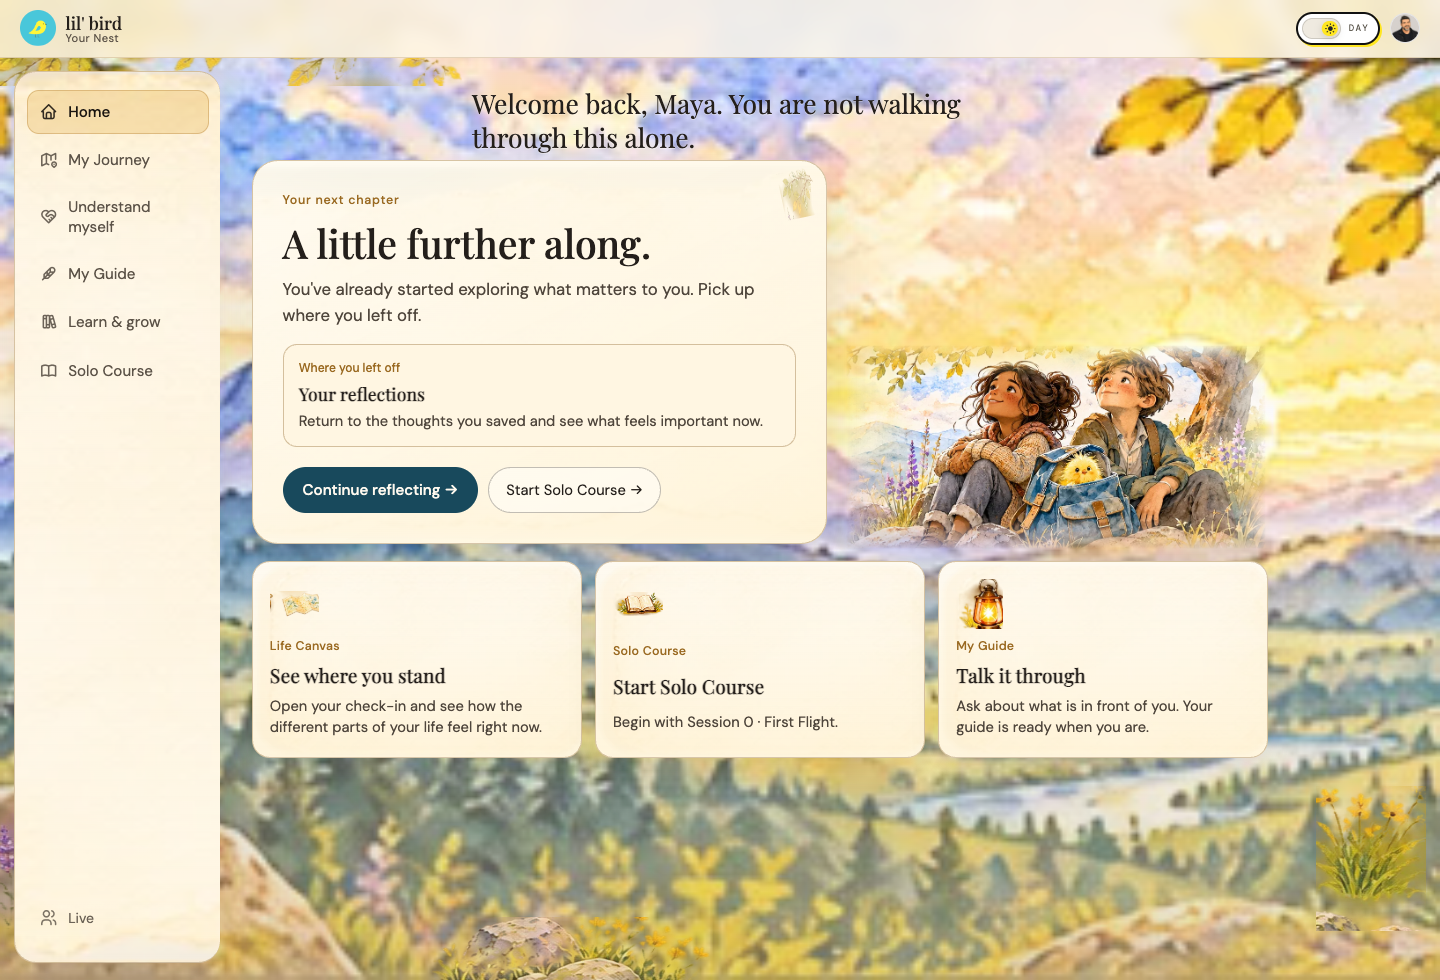
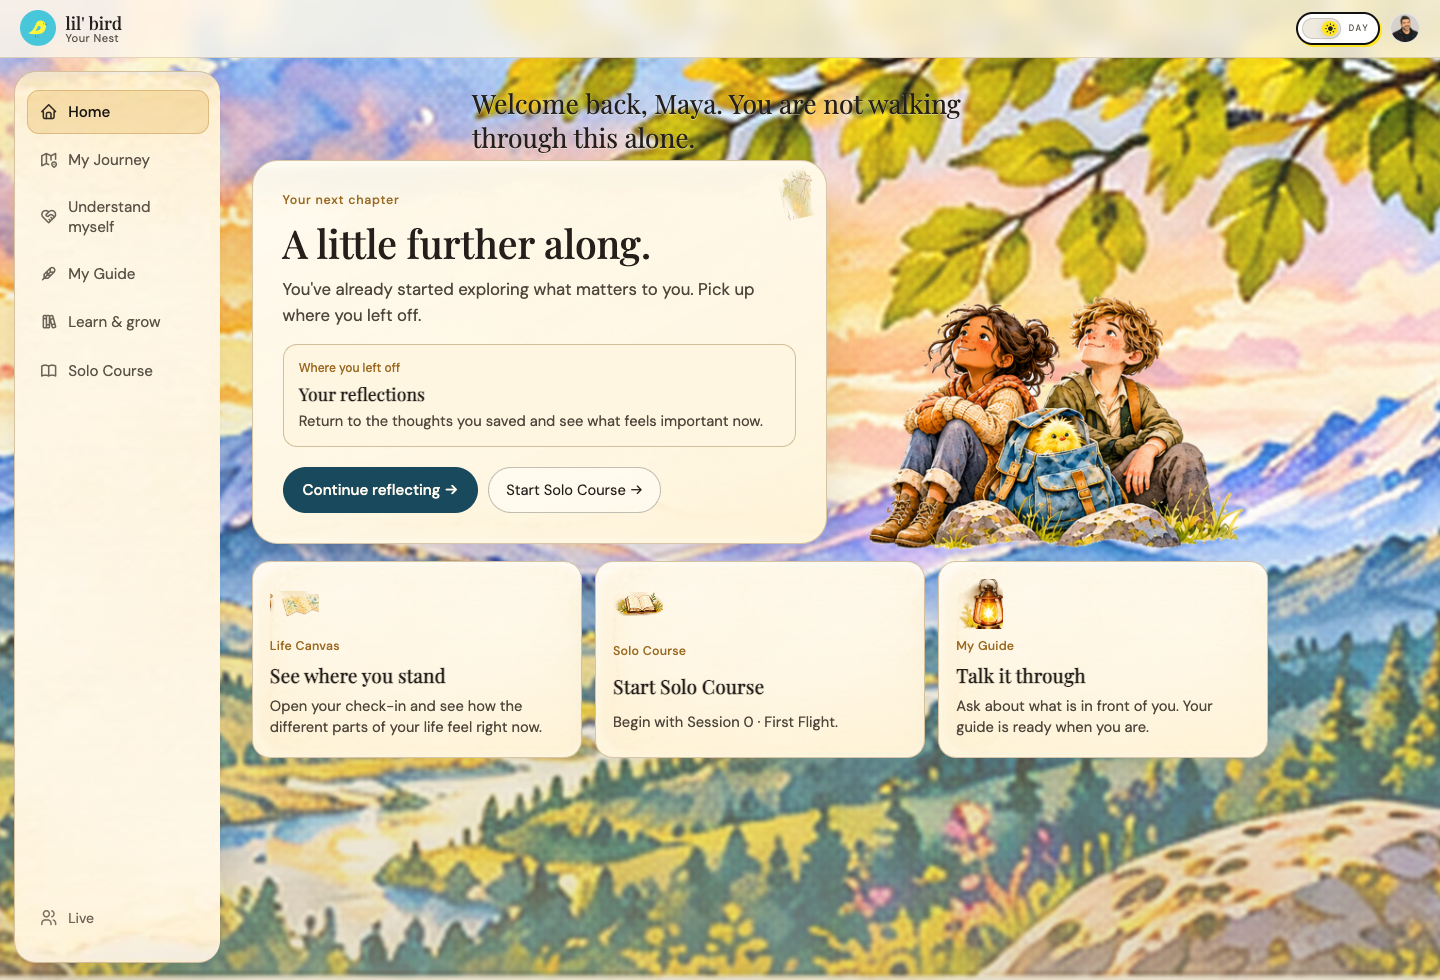
Swap in Nest valley and companion art replacements for review.
Use the new day/night panoramas and RGBA companion cutouts, prefer the no-lantern night companions, and refresh review screenshots. Do not merge yet.

diff --git a/css/lilbird-nest-world.css b/css/lilbird-nest-world.css
@@ -5,8 +5,9 @@
    do not “fix” soft edges or low-res backgrounds with blur/mask filters. */
 
 .nest-page.nest-world {
-  --world-day: url("/nest/assets/lilbird-kit/backgrounds/valley-day.webp");
-  --world-night: url("/nest/assets/lilbird-kit/backgrounds/valley-night.webp");
+  /* Nov 5 replacements — opaque panoramas; companions are separate RGBA cutouts */
+  --world-day: url("/nest/assets/lilbird-kit/backgrounds/nest-valley-day.webp");
+  --world-night: url("/nest/assets/lilbird-kit/backgrounds/nest-valley-night.webp");
   --paper-grain: url("/nest/assets/lilbird-kit/textures/cream-grain.webp");
   --paper-hero: url("/nest/assets/lilbird-kit/panels/paper-wide.webp");
   --paper-card: url("/nest/assets/lilbird-kit/panels/paper-card-a.webp");
@@ -34,7 +35,7 @@
   background-image:
     linear-gradient(180deg, rgba(247, 241, 230, 0.06) 0%, rgba(247, 241, 230, 0.18) 55%, rgba(201, 184, 146, 0.5) 100%),
     var(--world-day);
-  background-position: center top, center 18%;
+  background-position: center top, center 28%;
   background-size: auto, cover;
   background-repeat: no-repeat;
   background-attachment: fixed;
@@ -59,7 +60,7 @@ html[data-theme="dark"] .nest-page.nest-world {
   background-image:
     linear-gradient(180deg, rgba(15, 36, 51, 0.12) 0%, rgba(15, 36, 51, 0.42) 70%, rgba(15, 36, 51, 0.7) 100%),
     var(--world-night);
-  background-position: center top, center 20%;
+  background-position: center top, center 30%;
   background-size: auto, cover;
 }
 
@@ -75,71 +76,20 @@ html[data-theme="dark"] .nest-page.nest-world::before {
   mix-blend-mode: soft-light;
 }
 
-/* ── Decorative world layers (non-interactive) ── */
+/* ── Decorative world layers ──
+   New valley panoramas already include canopy, botanicals, rocks, and night stars.
+   Keep the decor slot in the DOM, but hide the old overlapping accents. */
 .nest-world-decor {
   position: fixed;
   inset: 0;
   pointer-events: none;
   z-index: 0;
   overflow: hidden;
+  display: none;
 }
 .nest-world-decor img {
   position: absolute;
   max-width: none;
-}
-/* Specificity must beat `.nest-world-decor img` so theme toggles actually hide layers */
-.nest-world-decor .world-canopy,
-.nest-world-decor .world-lupines,
-.nest-world-decor .world-flowers,
-.nest-world-decor .world-rocks,
-.nest-world-decor .world-stars {
-  display: block;
-}
-.nest-world-decor .world-canopy {
-  top: -4%;
-  left: -6%;
-  width: min(34vw, 400px);
-  opacity: 0.72;
-  /* Stay clear of theme toggle + avatar in the top-right chrome */
-  max-width: calc(100vw - 220px);
-}
-.nest-world-decor .world-canopy-night { display: none; }
-html[data-theme="dark"] .nest-world-decor .world-canopy-day { display: none; }
-html[data-theme="dark"] .nest-world-decor .world-canopy-night {
-  display: block;
-  opacity: 0.5;
-}
-.nest-world-decor .world-lupines {
-  left: -1%;
-  bottom: 4%;
-  width: min(12vw, 120px);
-  opacity: 0.85;
-}
-.nest-world-decor .world-flowers {
-  right: 1%;
-  bottom: 5%;
-  width: min(10vw, 100px);
-  opacity: 0.72;
-  /* Keep clear of secondary card row on typical desktop widths */
-  z-index: 0;
-}
-.nest-world-decor .world-rocks {
-  left: 30%;
-  bottom: -2%;
-  width: min(24vw, 280px);
-  opacity: 0.7;
-}
-.nest-world-decor .world-stars {
-  display: none;
-  top: 3%;
-  right: 4%;
-  width: min(36vw, 380px);
-  opacity: 0.65;
-}
-html[data-theme="dark"] .nest-world-decor .world-stars { display: block; }
-html[data-theme="dark"] .nest-world-decor .world-lupines,
-html[data-theme="dark"] .nest-world-decor .world-flowers {
-  opacity: 0.4;
 }
 
 .nest-app,
@@ -170,8 +120,10 @@ html[data-theme="dark"] .nest-world .nest-chrome {
   margin-right: auto;
 }
 html[data-theme="dark"] .nest-world .nest-greeting {
-  color: #f7f1e6;
-  text-shadow: 0 1px 2px rgba(0, 0, 0, 0.45);
+  color: #fff9ef;
+  text-shadow:
+    0 1px 2px rgba(0, 0, 0, 0.65),
+    0 0 18px rgba(15, 36, 51, 0.55);
 }
 
 /* ── Rail as tall parchment panel ── */
@@ -290,15 +242,16 @@ html[data-theme="dark"] .nest-world .next-chapter {
   position: relative;
   z-index: 1;
   pointer-events: none;
-  min-height: 220px;
+  min-height: 260px;
   display: flex;
   align-items: flex-end;
   justify-content: center;
-  margin-bottom: -0.35rem;
+  margin-bottom: -0.5rem;
 }
 .nest-companions-stage img {
   width: 100%;
-  max-width: 420px;
+  max-width: 380px;
+  max-height: min(46vh, 420px);
   height: auto;
   object-fit: contain;
   object-position: bottom center;
@@ -409,19 +362,6 @@ html[data-theme="dark"] .nest-world .mobile-bar-link.is-active {
     background-size: auto, auto 52vh;
     background-position: center top, center top;
   }
-  /* Keep sky clear of floating canopy over greeting / chrome */
-  .nest-world-decor .world-canopy,
-  .nest-world-decor .world-lupines,
-  .nest-world-decor .world-flowers,
-  .nest-world-decor .world-rocks {
-    display: none;
-  }
-  .nest-world-decor .world-stars {
-    width: min(48vw, 200px);
-    top: 1%;
-    right: -6%;
-    opacity: 0.4;
-  }
   .nest-world .nest-rail { display: none; }
 
   .nest-world .nest-greeting {
@@ -488,15 +428,16 @@ html[data-theme="dark"] .nest-world .mobile-bar-link.is-active {
 
   .nest-companions-stage {
     min-height: 0;
-    margin: -2.1rem 0.1rem -0.55rem auto;
+    margin: -1.6rem 0.1rem -0.4rem auto;
     justify-content: flex-end;
-    width: min(58vw, 220px);
+    width: min(52vw, 200px);
     align-self: flex-end;
     z-index: 1;
   }
   .nest-companions-stage img {
     width: 100%;
-    max-width: 220px;
+    max-width: 200px;
+    max-height: 210px;
   }
 
   .nest-world .nest-secondary {
@@ -528,11 +469,12 @@ html[data-theme="dark"] .nest-world .mobile-bar-link.is-active {
     background-size: auto, auto 44vh;
   }
   .nest-companions-stage {
-    margin-top: -1.55rem;
+    margin-top: -1.35rem;
+    width: min(48vw, 176px);
   }
   .nest-companions-stage img {
-    width: min(52vw, 188px);
-    max-width: 188px;
+    max-width: 176px;
+    max-height: 184px;
   }
   .nest-world .nest-secondary-watercolor {
     width: 2.45rem;

diff --git a/nest/index.html b/nest/index.html
@@ -26,7 +26,7 @@
   <link rel="stylesheet" href="./nest-tour.css?v=3" />
   <link rel="stylesheet" href="/css/lilbird-nest-theme.css?v=20260917m" />
   <link rel="stylesheet" href="/css/lilbird-nest-redesign.css?v=20261105p1" />
-  <link rel="stylesheet" href="/css/lilbird-nest-world.css?v=20261105w4" />
+  <link rel="stylesheet" href="/css/lilbird-nest-world.css?v=20261105w5" />
   <!-- Google Tag Manager -->
   <script src="/lilbird-gtm-id.js"></script>
   <script src="/lilbird-gtm.js"></script>
@@ -201,9 +201,9 @@
             </div>
           </section>
           <div class="nest-companions-stage" aria-hidden="true">
-            <!-- Soft-edge vignettes still carry feathered rectangular/gold halos — not clean cutouts. -->
-            <img class="nest-companions-day" src="./assets/lilbird-kit/companions/approved-companions-day-blended.webp" alt="" width="953" height="463" decoding="async" />
-            <img class="nest-companions-night" src="./assets/lilbird-kit/companions/approved-companions-night-blended.webp" alt="" width="953" height="472" decoding="async" />
+            <!-- Night landscape already includes a lantern — use no-lantern cutout to avoid duplicates. -->
+            <img class="nest-companions-day" src="./assets/lilbird-kit/companions/nest-companions-day.webp" alt="" width="1611" height="1095" decoding="async" />
+            <img class="nest-companions-night" src="./assets/lilbird-kit/companions/nest-companions-night-no-lantern.webp" alt="" width="1611" height="1095" decoding="async" />
           </div>
         </div>
 

diff --git a/nest/phase1b-world-fixture.html b/nest/phase1b-world-fixture.html
@@ -15,7 +15,7 @@
   <link rel="stylesheet" href="./nest-styles.css?v=50" />
   <link rel="stylesheet" href="/css/lilbird-nest-theme.css?v=20260917m" />
   <link rel="stylesheet" href="/css/lilbird-nest-redesign.css?v=20261105p1" />
-  <link rel="stylesheet" href="/css/lilbird-nest-world.css?v=20261105w4" />
+  <link rel="stylesheet" href="/css/lilbird-nest-world.css?v=20261105w5" />
   <style>
     .fixture-banner {
       position: sticky; top: 0; z-index: 60;
@@ -122,8 +122,8 @@
               </div>
             </section>
             <div class="nest-companions-stage" aria-hidden="true">
-              <img class="nest-companions-day" src="./assets/lilbird-kit/companions/approved-companions-day-blended.webp" alt="" width="953" height="463" decoding="async" />
-              <img class="nest-companions-night" src="./assets/lilbird-kit/companions/approved-companions-night-blended.webp" alt="" width="953" height="472" decoding="async" />
+              <img class="nest-companions-day" src="./assets/lilbird-kit/companions/nest-companions-day.webp" alt="" width="1611" height="1095" decoding="async" />
+              <img class="nest-companions-night" src="./assets/lilbird-kit/companions/nest-companions-night-no-lantern.webp" alt="" width="1611" height="1095" decoding="async" />
             </div>
           </div>
           <section class="nest-secondary" id="secondary" aria-label="Quick paths"></section>

diff --git a/nest/visual-redesign-audit/PHASE1B-VERIFICATION.md b/nest/visual-redesign-audit/PHASE1B-VERIFICATION.md
@@ -4,16 +4,15 @@
 **Status:** Direction approved; CSS/layout pass in progress — **do not merge.**  
 **Base:** Phase 1 tip (PR #40) — keep #40 unmerged; this PR continues the visual track.
 
-### Review pass (Nov 5) — CSS/layout fixes, artwork still pending
-- Fixed day-mode star wash leak (`.nest-world-decor img` had been overriding `display: none`)
-- Night “Where you left off” inset forced to warm parchment with stronger ink contrast
-- Mobile: shorter chapter (hides redundant body when context is present), tucked companions, secondary cards earlier in the viewport
-- Decor canopy kept off chrome / greeting; wayfinder accent removed (was covering CTAs)
-- Fresh review shots: `phase1b-world/01–04` and `phase1b-world/review-pass2/`
-- Still awaiting replacement assets (no CSS blur/mask concealment):
-  - High-res day/night landscapes (current valley art still soft when covered)
-  - Coherent daytime sky (residual blue texture is in the day background asset itself)
-  - Clean companion cutouts (rectangular landscape halos remain)
+### Review pass (Nov 5) — CSS/layout + art replacements
+- Fixed day-mode star wash leak; night reflection inset → warm parchment; mobile chapter tightened
+- Integrated `lilbird_nest_art_replacements.zip`:
+  - Backgrounds: `nest-valley-day.webp` / `nest-valley-night.webp`
+  - Companions: `nest-companions-day.webp` + `nest-companions-night-no-lantern.webp` (night valley already has a lantern)
+- Hid old overlapping botanical decor layers (new panoramas already include them)
+- Notes: landscapes are Lanczos-upscaled from ~915px sources — sharper at Nest widths, not true 4K paint
+- Fresh shots: `phase1b-world/01–04` and `phase1b-world/review-pass2/`
+
 
 ## What changed
 
